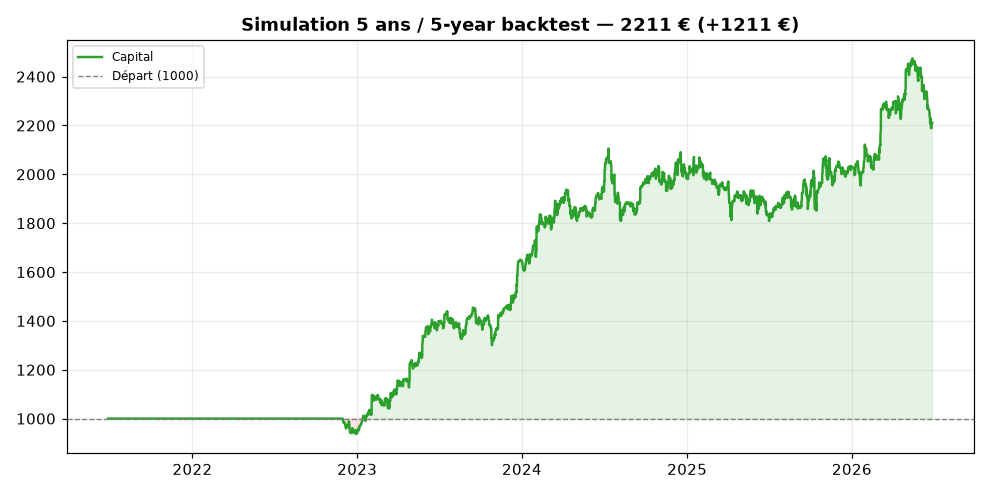
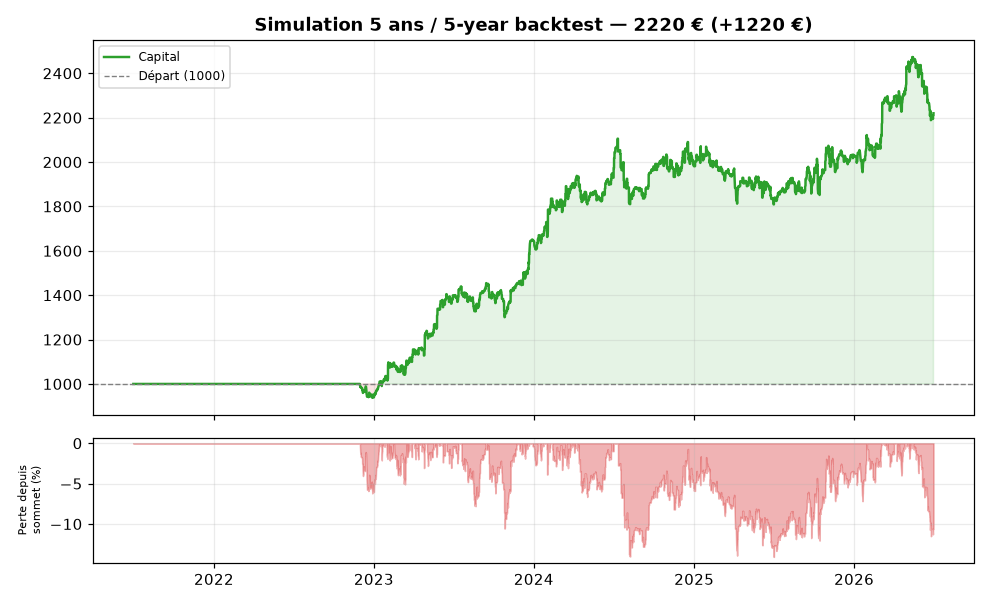
⚡🎨 Amélioration globale : cache intelligent (250x), /analyse enrichie, graphiques pro
Traitement (perf + résilience) :
- Cache TTL en mémoire dans MarketService (cotations 60s, historiques 15 min) avec
  repli sur donnée périmée en cas d'échec réseau (stale-if-error).
  fetch univers : 1.8s -> 0.007s. Les 4 jobs périodiques et toutes les commandes
  partagent désormais les mêmes données au lieu de re-télécharger.

Interface Telegram :
- /analyse enrichie : tendance agrégée (score/label) + consensus de l'équipe de
  stratégies, en plus de la fiche (quasi gratuit grâce au cache).

Graphiques :
- /graph : ajout SMA200 (calculée sur l'historique complet), volume coloré
  hausse/baisse, bande RSI 30-70.
- Courbe d'équity : sous-graphe de drawdown (perte depuis le sommet) — le risque
  vécu visible d'un coup d'œil.
- Captures du README régénérées avec les nouveaux visuels.

40 tests verts, lint clean.

Claude-Session: https://claude.ai/code/session_018uDH5hrDKa4jmvgABhBZJc

diff --git a/src/charting.py b/src/charting.py
@@ -14,29 +14,50 @@ from .indicators.technical import rsi, sma  # noqa: E402
 
 
 def make_chart(symbol: str, df, lookback: int = 180) -> str | None:
-    """Crée un graphique et renvoie le chemin du PNG (ou None si données insuffisantes)."""
+    """Graphique complet : cours + SMA 20/50/200, volume et RSI. Renvoie le chemin PNG."""
     if df is None or "close" not in df.columns or len(df) < 30:
         return None
+    # calcule la SMA200 sur tout l'historique AVANT de tronquer (sinon vide sur 180j)
+    full_close = df["close"].astype(float)
+    sma200_full = sma(full_close, 200)
     d = df.tail(lookback)
     close = d["close"].astype(float)
+    has_volume = "volume" in d.columns and float(d["volume"].fillna(0).sum()) > 0
 
-    fig, (ax1, ax2) = plt.subplots(
-        2, 1, figsize=(9, 6), gridspec_kw={"height_ratios": [3, 1]}, sharex=True
-    )
+    rows = 3 if has_volume else 2
+    ratios = [3, 0.8, 1] if has_volume else [3, 1]
+    fig, axes = plt.subplots(rows, 1, figsize=(9, 6.5),
+                             gridspec_kw={"height_ratios": ratios}, sharex=True)
+    ax1 = axes[0]
+    ax_rsi = axes[-1]
+
     ax1.plot(close.index, close, label="Cours", color="#1f77b4", linewidth=1.4)
-    ax1.plot(close.index, sma(close, 20), label="SMA20", color="#ff7f0e", linewidth=1)
-    ax1.plot(close.index, sma(close, 50), label="SMA50", color="#2ca02c", linewidth=1)
-    ax1.set_title(f"{symbol} — cours & moyennes mobiles", fontsize=12, fontweight="bold")
+    ax1.plot(close.index, sma(full_close, 20).tail(lookback), label="SMA20", color="#ff7f0e", linewidth=1)
+    ax1.plot(close.index, sma(full_close, 50).tail(lookback), label="SMA50", color="#2ca02c", linewidth=1)
+    s200 = sma200_full.tail(lookback)
+    if s200.notna().any():
+        ax1.plot(close.index, s200, label="SMA200", color="#d62728", linewidth=1, linestyle="--")
+    ax1.set_title(f"{symbol} — cours, moyennes mobiles & volume", fontsize=12, fontweight="bold")
     ax1.legend(loc="upper left", fontsize=8)
     ax1.grid(alpha=0.25)
 
+    if has_volume:
+        ax_vol = axes[1]
+        vols = d["volume"].astype(float)
+        colors = ["#2ca02c" if c >= o else "#d62728"
+                  for c, o in zip(d["close"], d.get("open", d["close"]))]
+        ax_vol.bar(vols.index, vols, color=colors, alpha=0.5, width=1.0)
+        ax_vol.set_ylabel("Vol.", fontsize=8)
+        ax_vol.grid(alpha=0.2)
+
     r = rsi(close)
-    ax2.plot(r.index, r, color="#9467bd", linewidth=1)
-    ax2.axhline(70, color="red", linestyle="--", linewidth=0.7)
-    ax2.axhline(30, color="green", linestyle="--", linewidth=0.7)
-    ax2.set_ylim(0, 100)
-    ax2.set_ylabel("RSI", fontsize=8)
-    ax2.grid(alpha=0.25)
+    ax_rsi.plot(r.index, r, color="#9467bd", linewidth=1)
+    ax_rsi.axhline(70, color="red", linestyle="--", linewidth=0.7)
+    ax_rsi.axhline(30, color="green", linestyle="--", linewidth=0.7)
+    ax_rsi.fill_between(r.index, 30, 70, alpha=0.05, color="#9467bd")
+    ax_rsi.set_ylim(0, 100)
+    ax_rsi.set_ylabel("RSI", fontsize=8)
+    ax_rsi.grid(alpha=0.25)
 
     fig.tight_layout()
     out = Path(tempfile.gettempdir()) / f"owltrader_{symbol.replace(':', '_')}.png"
@@ -60,7 +81,8 @@ def make_equity_chart(equity, capital: float, title: str = "Évolution du capita
     if len(equity) < 2:
         return None
 
-    fig, ax = plt.subplots(figsize=(9, 4.5))
+    fig, (ax, ax_dd) = plt.subplots(2, 1, figsize=(9, 5.5),
+                                    gridspec_kw={"height_ratios": [3, 1]}, sharex=True)
     final = float(equity.iloc[-1])
     color = "#2ca02c" if final >= capital else "#d62728"
     ax.plot(equity.index, equity.values, color=color, linewidth=1.6, label="Capital")
@@ -73,6 +95,12 @@ def make_equity_chart(equity, capital: float, title: str = "Évolution du capita
     ax.set_title(f"{title} — {final:.0f} € ({profit:+.0f} €)", fontsize=12, fontweight="bold")
     ax.legend(loc="upper left", fontsize=8)
     ax.grid(alpha=0.25)
+
+    # Sous-graphe : drawdown (perte depuis le sommet) — le "vécu" du risque
+    dd = (equity / equity.cummax() - 1) * 100
+    ax_dd.fill_between(dd.index, dd.values, 0, color="#d62728", alpha=0.35)
+    ax_dd.set_ylabel("Perte depuis\nsommet (%)", fontsize=7)
+    ax_dd.grid(alpha=0.25)
     fig.tight_layout()
     out = Path(tempfile.gettempdir()) / f"owltrader_{name}.png"
     fig.savefig(out, dpi=110)

diff --git a/src/service.py b/src/service.py
@@ -3,6 +3,8 @@
 from __future__ import annotations
 
 import logging
+import threading
+import time
 from concurrent.futures import ThreadPoolExecutor, as_completed
 from dataclasses import dataclass
 from typing import Optional
@@ -43,12 +45,50 @@ class Analysis:
     indicators: dict
 
 
+class _TTLCache:
+    """Cache mémoire avec TTL + repli sur donnée périmée en cas d'échec réseau."""
+
+    def __init__(self):
+        self._data: dict = {}
+        self._lock = threading.Lock()
+
+    def get_or_fetch(self, key, ttl: float, fetch):
+        now = time.time()
+        with self._lock:
+            hit = self._data.get(key)
+        if hit and now - hit[0] < ttl:
+            return hit[1]
+        try:
+            value = fetch()
+        except Exception:  # noqa: BLE001
+            value = None
+        if value is None or (hasattr(value, "__len__") and len(value) == 0):
+            # échec réseau : on sert l'ancienne valeur plutôt que rien (stale-if-error)
+            return hit[1] if hit else value
+        with self._lock:
+            self._data[key] = (now, value)
+            # purge simple pour éviter la croissance infinie
+            if len(self._data) > 500:
+                oldest = sorted(self._data.items(), key=lambda kv: kv[1][0])[:100]
+                for k, _ in oldest:
+                    self._data.pop(k, None)
+        return value
+
+
+# TTLs : cotations très courtes (fraîcheur), historiques journaliers plus longs
+QUOTE_TTL = 60          # 1 min
+HISTORY_TTL = 900       # 15 min (bougies journalières : inutile de re-télécharger plus souvent)
+
+
 class MarketService:
     def __init__(self, router: DataRouter | None = None):
         self.router = router or build_router()
+        self._cache = _TTLCache()
 
     def quote(self, raw: str) -> Optional[Quote]:
-        return self.router.get_quote(Asset.parse(raw))
+        asset = Asset.parse(raw)
+        return self._cache.get_or_fetch(
+            ("q", asset.raw), QUOTE_TTL, lambda: self.router.get_quote(asset))
 
     def analyze(self, raw: str, with_news: bool = True) -> Analysis:
         asset = Asset.parse(raw)
@@ -92,7 +132,10 @@ class MarketService:
         return run_backtest(asset.raw, df, short, long) if df is not None else None
 
     def history(self, raw: str, period: str = "1y"):
-        return self.router.get_history(Asset.parse(raw), period=period, interval="1d")
+        asset = Asset.parse(raw)
+        return self._cache.get_or_fetch(
+            ("h", asset.raw, period), HISTORY_TTL,
+            lambda: self.router.get_history(asset, period=period, interval="1d"))
 
     def fetch_histories(self, universe: list[str], period: str = "2y") -> dict:
         """Récupère en parallèle l'historique de tout un univers : {actif: df}."""

diff --git a/src/bot/telegram_bot.py b/src/bot/telegram_bot.py
@@ -390,12 +390,33 @@ async def prix(update: Update, context: ContextTypes.DEFAULT_TYPE):
     await update.message.reply_text(quote_line(q), parse_mode=MD)
 
 
+def _analysis_extras(svc, raw: str) -> str:
+    """Tendance agrégée + consensus de l'équipe, en 2 lignes (grâce au cache, quasi gratuit)."""
+    lines = []
+    try:
+        tr = svc.trend(raw, with_news=False)
+        if tr:
+            lines.append(f"{tr.emoji} Tendance agrégée : *{tr.label}* ({tr.score:+.0f}/100)")
+    except Exception:  # noqa: BLE001
+        pass
+    try:
+        votes = svc.team_votes(raw)
+        if votes:
+            pour = sum(1 for v in votes.values() if v)
+            lines.append(f"👥 Équipe : *{pour}/{len(votes)}* achèteraient (/equipe {raw.split(':')[-1]})")
+    except Exception:  # noqa: BLE001
+        pass
+    return ("\n" + "\n".join(lines)) if lines else ""
+
+
 async def analyse(update: Update, context: ContextTypes.DEFAULT_TYPE):
     if not context.args:
         return await update.message.reply_text("Usage : /analyse AAPL")
     msg = await update.message.reply_text("⏳ Analyse en cours…")
-    a = await asyncio.to_thread(_svc(context).analyze, context.args[0])
-    await msg.edit_text(analysis_full(a), parse_mode=MD,
+    svc = _svc(context)
+    a = await asyncio.to_thread(svc.analyze, context.args[0])
+    extras = await asyncio.to_thread(_analysis_extras, svc, a.asset.raw)
+    await msg.edit_text(analysis_full(a) + extras, parse_mode=MD,
                         reply_markup=asset_keyboard(a.asset.raw))
 
 